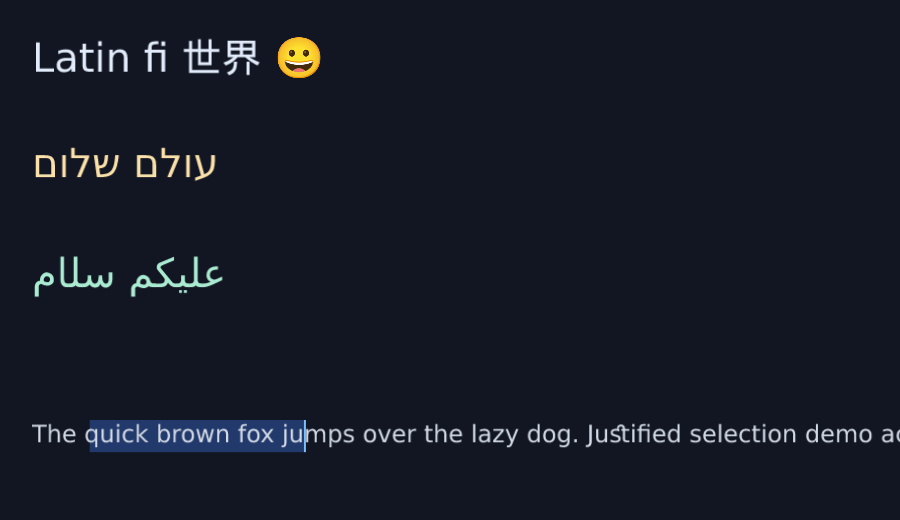
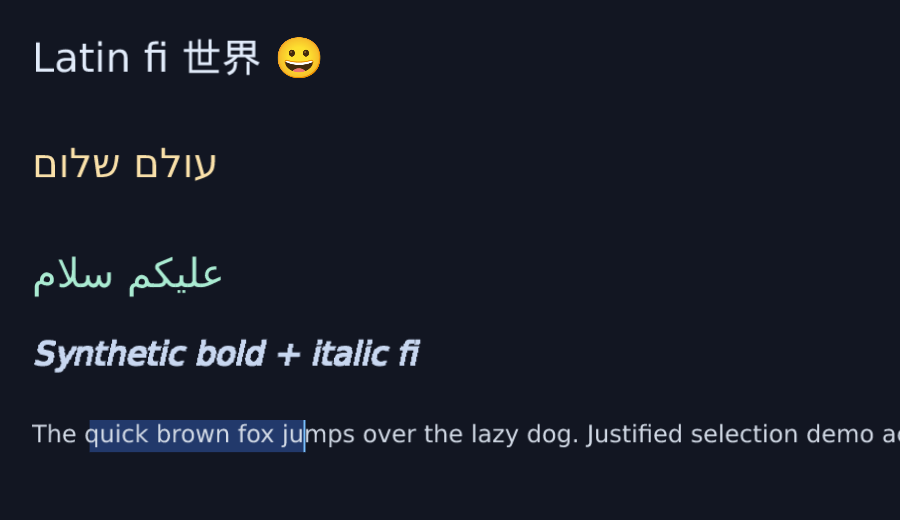
feat(2d): synthetic bold and italic
- TextStyle gains bold/italic; PlacedGlyph carries the flags through layout.

- GlyphCache adds a styled path: 3x3 A8 dilation for bold and a 0.22 vertical shear for italic, with the style encoded in the cache key.

- Renderer uses the styled mask path for glyphs; CBDT color emoji is unaffected.

- Example 60 adds a synthetic bold+italic line and asserts the flags.

Verified: 69 tests; gate 54-60.

Changed region(s): [[0.0311, 0.6462, 0.4667, 0.7077], [0.6844, 0.8, 1.0, 0.8615], [0.0622, 0.4923, 0.2489, 0.5846]]

diff --git a/examples/60-tycho-2d-i18n-text/README.md b/examples/60-tycho-2d-i18n-text/README.md
@@ -8,6 +8,7 @@ M8 integration example mixing:
 - Hebrew RTL visual order
 - Arabic joining forms (Presentation Forms-B)
 - Justified paragraph, selection boxes and caret
+- Synthetic bold + italic (3x3 dilation + vertical shear)
 
 The fallback chain is DejaVuSans -> DroidSansFallbackFull -> NotoColorEmoji.
 Latin ligatures use GSUB `liga` with glyph-id rendering; Arabic uses GSUB
@@ -33,6 +34,6 @@ moon build --target native 60-tycho-2d-i18n-text
 Sample output:
 
 ```json
-{"ligature":true,"arabic_forms":7,"rtl_first":1501,"selection_boxes":1,"yellow_pixels":1157}
-[60-tycho-2d-i18n-text] OK — Latin ligature + CJK + emoji + Hebrew RTL + Arabic joining, 7 Arabic forms, 0 validation errors
+{"ligature":true,"arabic_forms":7,"rtl_first":1501,"selection_boxes":1,"bold_italic":true,"yellow_pixels":1157}
+[60-tycho-2d-i18n-text] OK — Latin ligature + CJK + emoji + Hebrew RTL + Arabic joining + synthetic bold/italic, 7 Arabic forms, 0 validation errors
 ```
